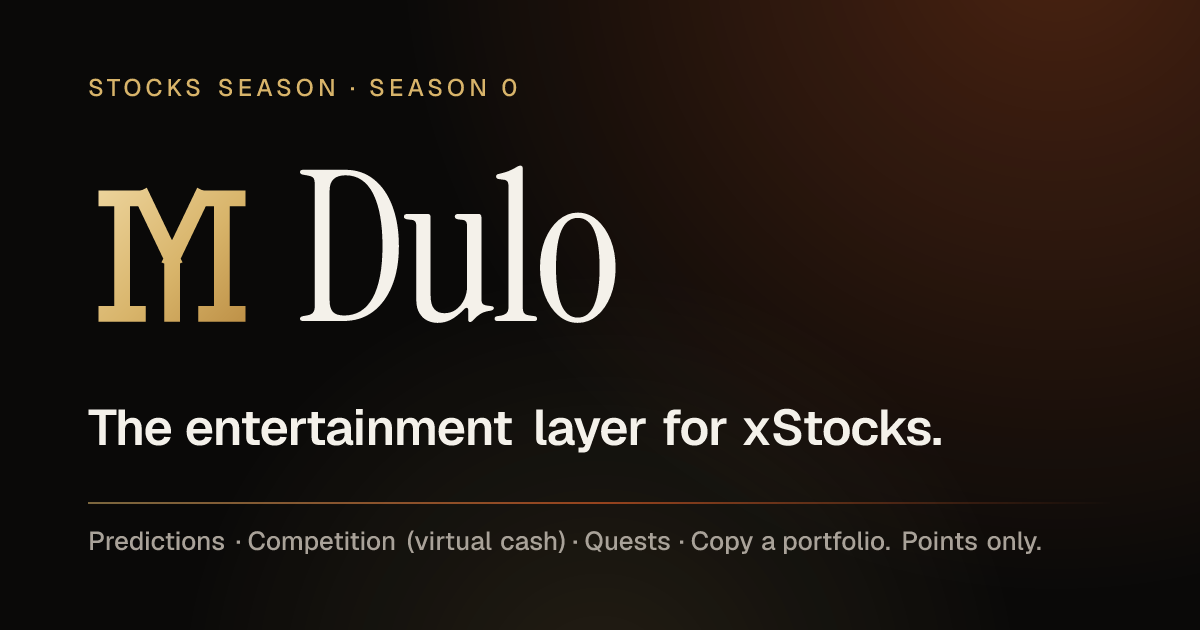
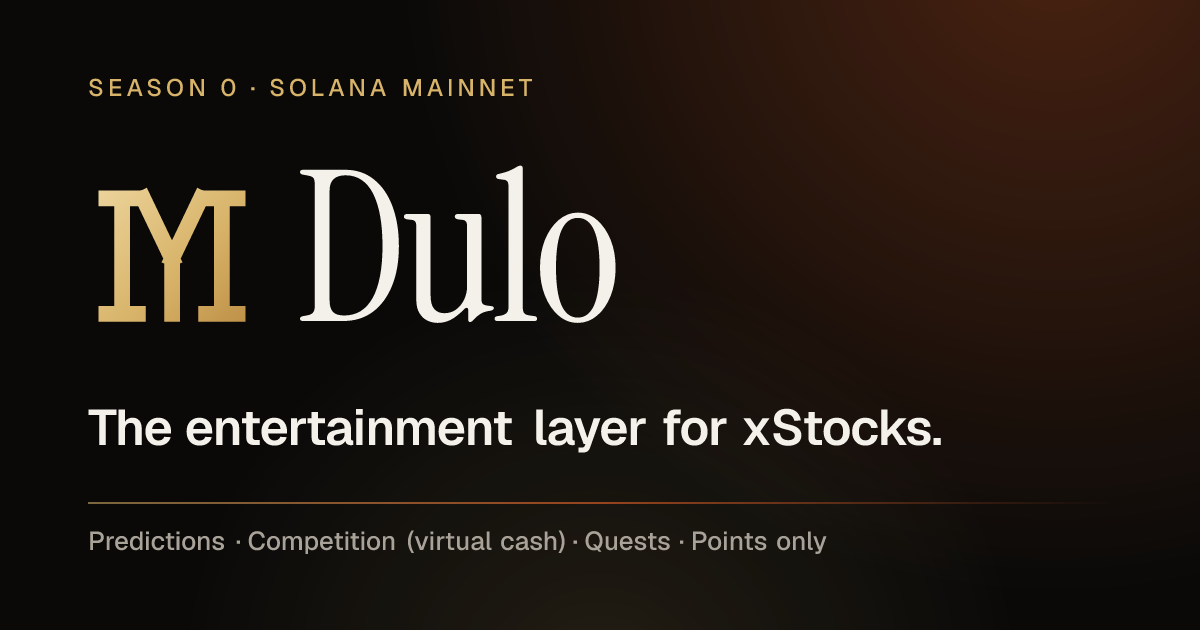
Tighten the copy on the social card
The eyebrow read "Stocks Season · Season 0", saying Season twice, and is now
"Season 0 · Solana mainnet", which adds a fact instead of repeating one. The
footer was a cramped run-on with a full stop in the middle -- "...Copy a
portfolio. Points only." -- and is now "Predictions · Competition (virtual
cash) · Quests · Points only": the three games in their fixed order, virtual
still sitting beside Competition, and Copy a portfolio left out because it is
a tool rather than a game.

The README repeated both the tagline and the game list directly under the
image that already showed them; the positioning line stays, the duplicate
game row goes. twitter-image reuses this component, so both cards move
together.

Changed region(s): [[0.0925, 0.1206, 0.4625, 0.1508], [0.555, 0.8444, 0.8633, 0.8746]]

diff --git a/src/app/opengraph-image.tsx b/src/app/opengraph-image.tsx
@@ -15,8 +15,8 @@ const GOLD = "#d8b46a";
 
 const WORDMARK = "Dulo";
 const TAGLINE = "The entertainment layer for xStocks.";
-const EYEBROW = "Stocks Season · Season 0";
-const FOOTER = "Predictions · Competition (virtual cash) · Quests · Copy a portfolio. Points only.";
+const EYEBROW = "Season 0 · Solana mainnet";
+const FOOTER = "Predictions · Competition (virtual cash) · Quests · Points only";
 
 /** Unique characters of the strings, for Google Fonts' `text=` subsetting (plus upper case for text-transform). */
 function glyphs(...parts: string[]): string {

diff --git a/README.md b/README.md
@@ -2,14 +2,12 @@
 
 <img src="docs/brand/og.png" alt="Dulo — the entertainment layer for xStocks" width="840">
 
-### The entertainment layer for xStocks.<br>Compete, predict and get rewarded, for points.
+**The entertainment layer for xStocks. Compete, predict and get rewarded, for points.**
 
 [![CI](https://github.com/djbigzzz/dulo/actions/workflows/ci.yml/badge.svg)](https://github.com/djbigzzz/dulo/actions/workflows/ci.yml)
 [![Tests](https://img.shields.io/badge/tests-1%2C176%20passing-d8b46a?style=flat&labelColor=0a0908)](#tests)
 [![Solana](https://img.shields.io/badge/Solana-mainnet-ff6a2a?style=flat&labelColor=0a0908)](#why-solana)
 [![Licence](https://img.shields.io/badge/licence-MIT-a9a299?style=flat&labelColor=0a0908)](LICENSE)
-
-**Predictions** &nbsp;·&nbsp; **Competition** (virtual cash) &nbsp;·&nbsp; **Quests** &nbsp;·&nbsp; Copy a portfolio
 
 </div>
 
